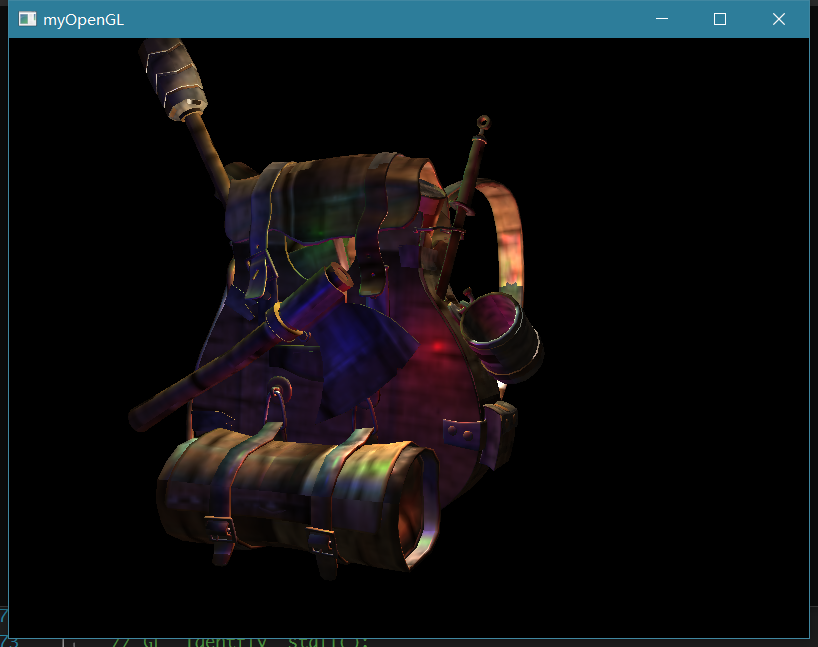
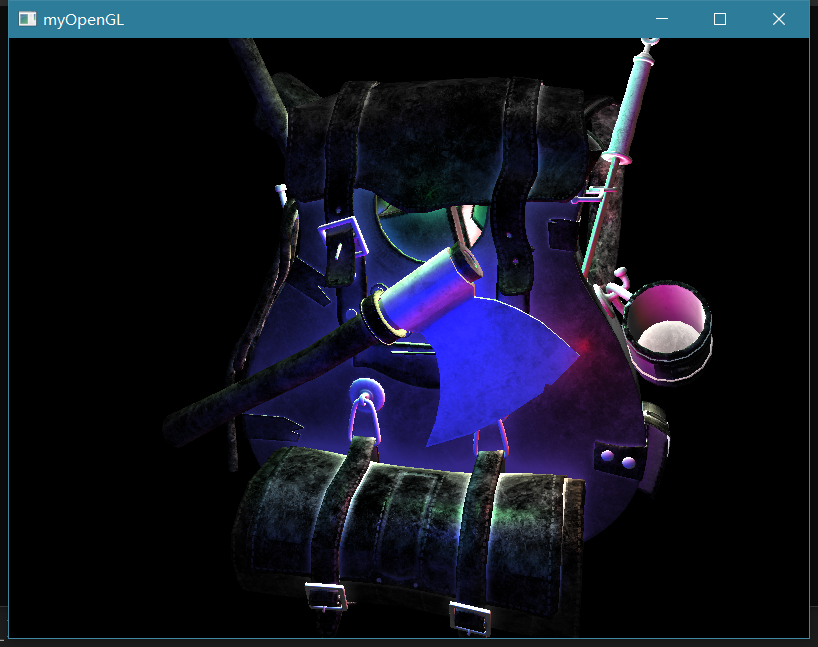
model's texture

diff --git a/src/Model.cpp b/src/Model.cpp
@@ -1,4 +1,5 @@
 #include "Model.h"
+#include "stb_image.h"
 
 Model::Model(const string & path)
 {
@@ -27,6 +28,7 @@ Mesh Model::proessMesh(aiMesh * mesh, const aiScene * scene)
 	vector<unsigned int> idxes;
 	vector<Texture> textures;
 
+	// mesh->Vertex
 	for (int i = 0; i < mesh->mNumVertices; ++i) {
 		Vertex buf;
 		aiVector3D vector3 = mesh->mVertices[i];
@@ -49,6 +51,7 @@ Mesh Model::proessMesh(aiMesh * mesh, const aiScene * scene)
 		vertex.emplace_back(buf);
 	}
 
+	// mesh->indices
 	for (int i = 0; i < mesh->mNumFaces; ++i) {
 		aiFace face = mesh->mFaces[i];
 		for (int j = 0; j < face.mNumIndices; ++j) {
@@ -56,8 +59,73 @@ Mesh Model::proessMesh(aiMesh * mesh, const aiScene * scene)
 		}
 	}
 
+	// mesh->texture
+	aiMaterial *mat = scene->mMaterials[mesh->mMaterialIndex];
+
+	vector<Texture> diffuse = loadMaterialTexture(mat, aiTextureType_DIFFUSE, "texture_diffues");
+	textures.insert(textures.end(), diffuse.begin(), diffuse.end());
+
+	vector<Texture> specular = loadMaterialTexture(mat, aiTextureType_SPECULAR, "texture_specular");
+	textures.insert(textures.end(), specular.begin(), specular.end());
+
 	return Mesh(vertex, idxes, {});
 
+}
+
+vector<Texture> Model::loadMaterialTexture(aiMaterial * mat, aiTextureType type, string type_name)
+{
+	vector<Texture> texture;
+	for (int i = 0; i < mat->GetTextureCount(type); ++i) {
+		aiString path;
+		mat->GetTexture(type, i, &path);
+
+		bool skip = false;
+		for (int i = 0; i < texture_loaded.size(); ++i) {
+			if (strcmp(texture_loaded[i].path.data(), path.C_Str()) == 0) {
+				texture.emplace_back(texture_loaded[i]);
+				skip = true;
+				break;
+			}
+		}
+
+		if (!skip) {
+			Texture tex;
+			tex.id = GetTextrueID(path.C_Str());
+			tex.type = type_name;
+			tex.path = path.C_Str();
+			texture_loaded.emplace_back(tex);
+			texture.emplace_back(tex);
+		}
+	} 
+
+	return texture;
+}
+
+// get texture id.
+unsigned int Model::GetTextrueID(const char *path)
+{
+	unsigned int texture_id = 0;
+	glGenTextures(1, &texture_id);
+	glBindTexture(GL_TEXTURE_2D, texture_id);
+
+
+	string filename = this->directory + '/' + path;
+
+	int width, height, nrComponents;
+	unsigned char *data = stbi_load(filename.c_str(), &width, &height, &nrComponents, 0);
+	if (data) {
+		GLenum format;
+		if (nrComponents == 1) format = GL_RED;
+		else if (nrComponents == 3) format = GL_RGB;
+		else if (nrComponents == 4) format = GL_RGBA;
+
+		glTexImage2D(GL_TEXTURE_2D, 0, format, width, height, 0, format, GL_UNSIGNED_BYTE, data);
+		glGenerateMipmap(GL_TEXTURE_2D);
+	}
+	else {
+		cout << filename  << " failed teuture id !" << endl;
+	}
+	return texture_id;
 }
 
 void Model::LoadModel(const string path)
@@ -69,7 +137,7 @@ void Model::LoadModel(const string path)
 		return;
 	}
 
-	directory = path.substr(0, path.find_last_of('\\'));
+	directory = path.substr(0, path.find_last_of('/'));
 	proessNode(scene->mRootNode, scene);
 }
 

diff --git a/src/Model.h b/src/Model.h
@@ -13,6 +13,9 @@
 #include "./Mesh/Mesh.h"
 #include "./Shader/Shader.h"
 
+#include <glm.hpp>
+#include <gtc/matrix_transform.hpp>
+
 using namespace std;
 using namespace::Assimp;
 
@@ -21,10 +24,13 @@ class Model
 {
 	void proessNode(aiNode *node, const aiScene *scene);
 	Mesh proessMesh(aiMesh *mesh, const aiScene *scene);
+	vector<Texture> loadMaterialTexture(aiMaterial *mat, aiTextureType type, string type_name);
+	unsigned int GetTextrueID(const char *path);
 	void LoadModel(const string path);
 	string directory;
 
 	vector<Mesh> meshes;
+	vector<Texture> texture_loaded;
 public:
 	Model(const string &path);
 	void Draw(Shader *myShader);
